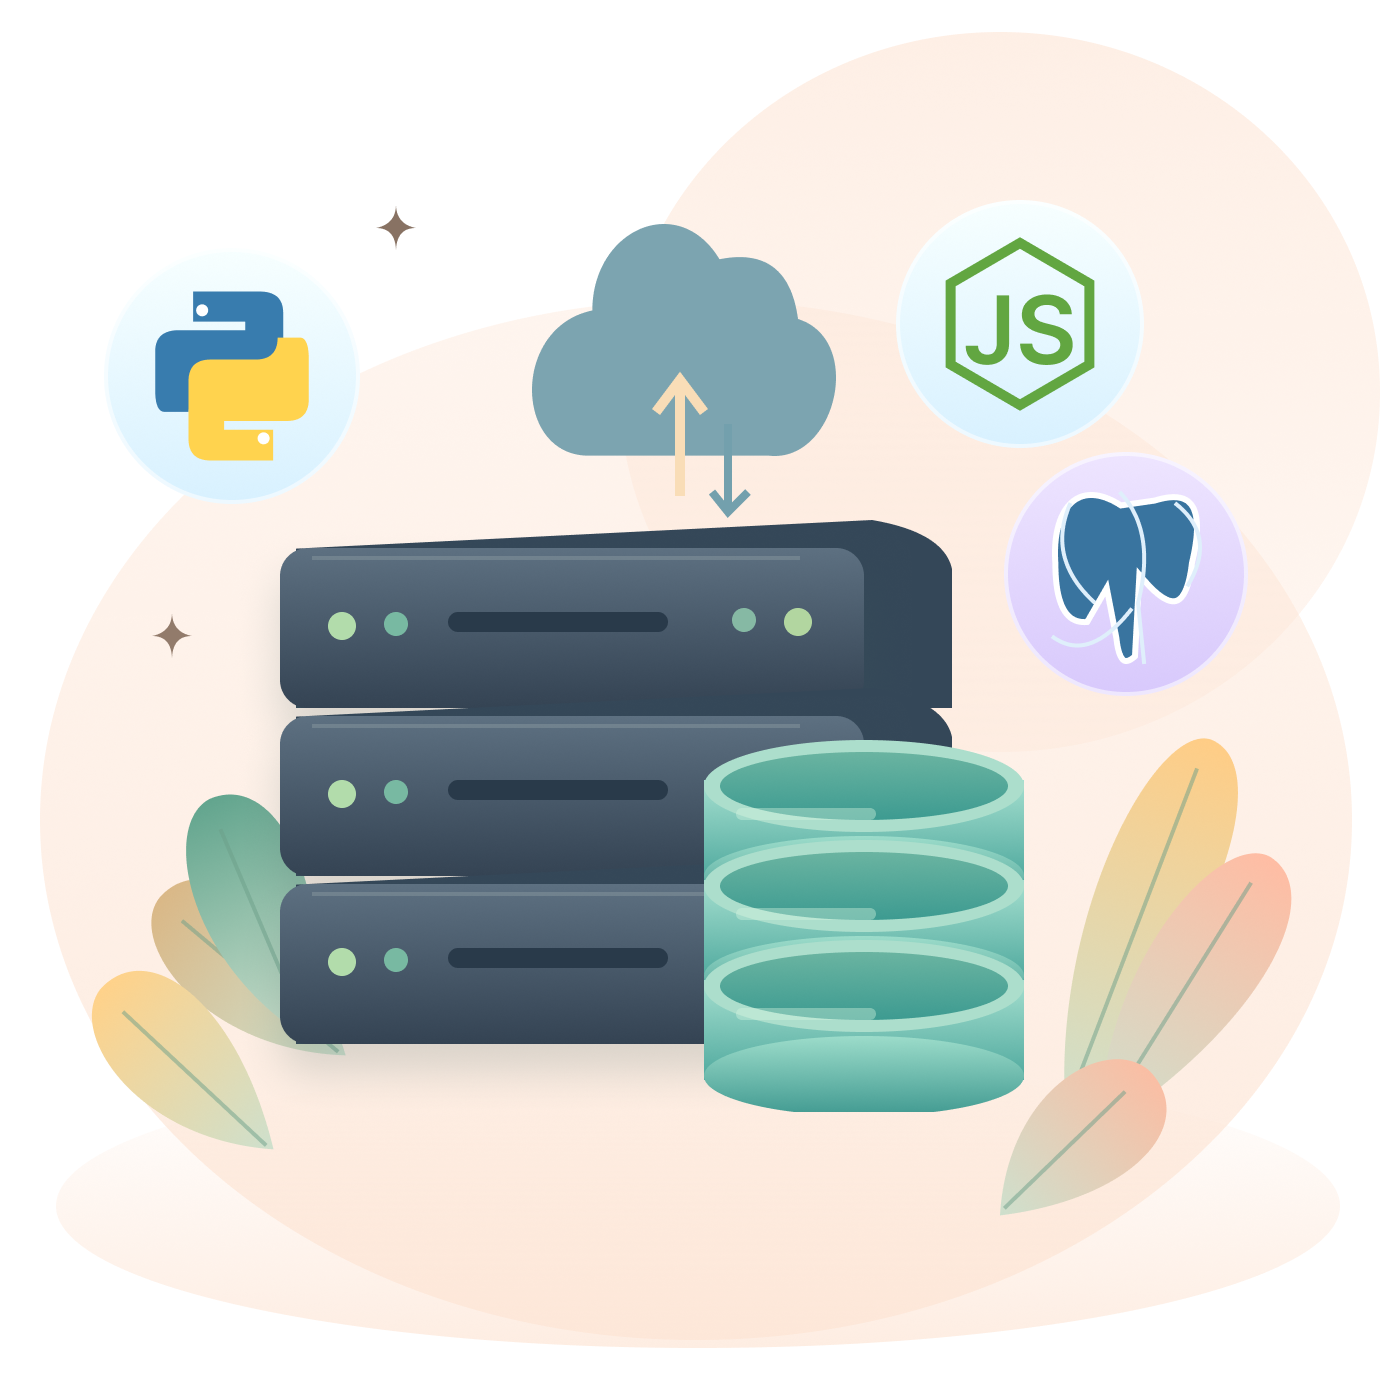
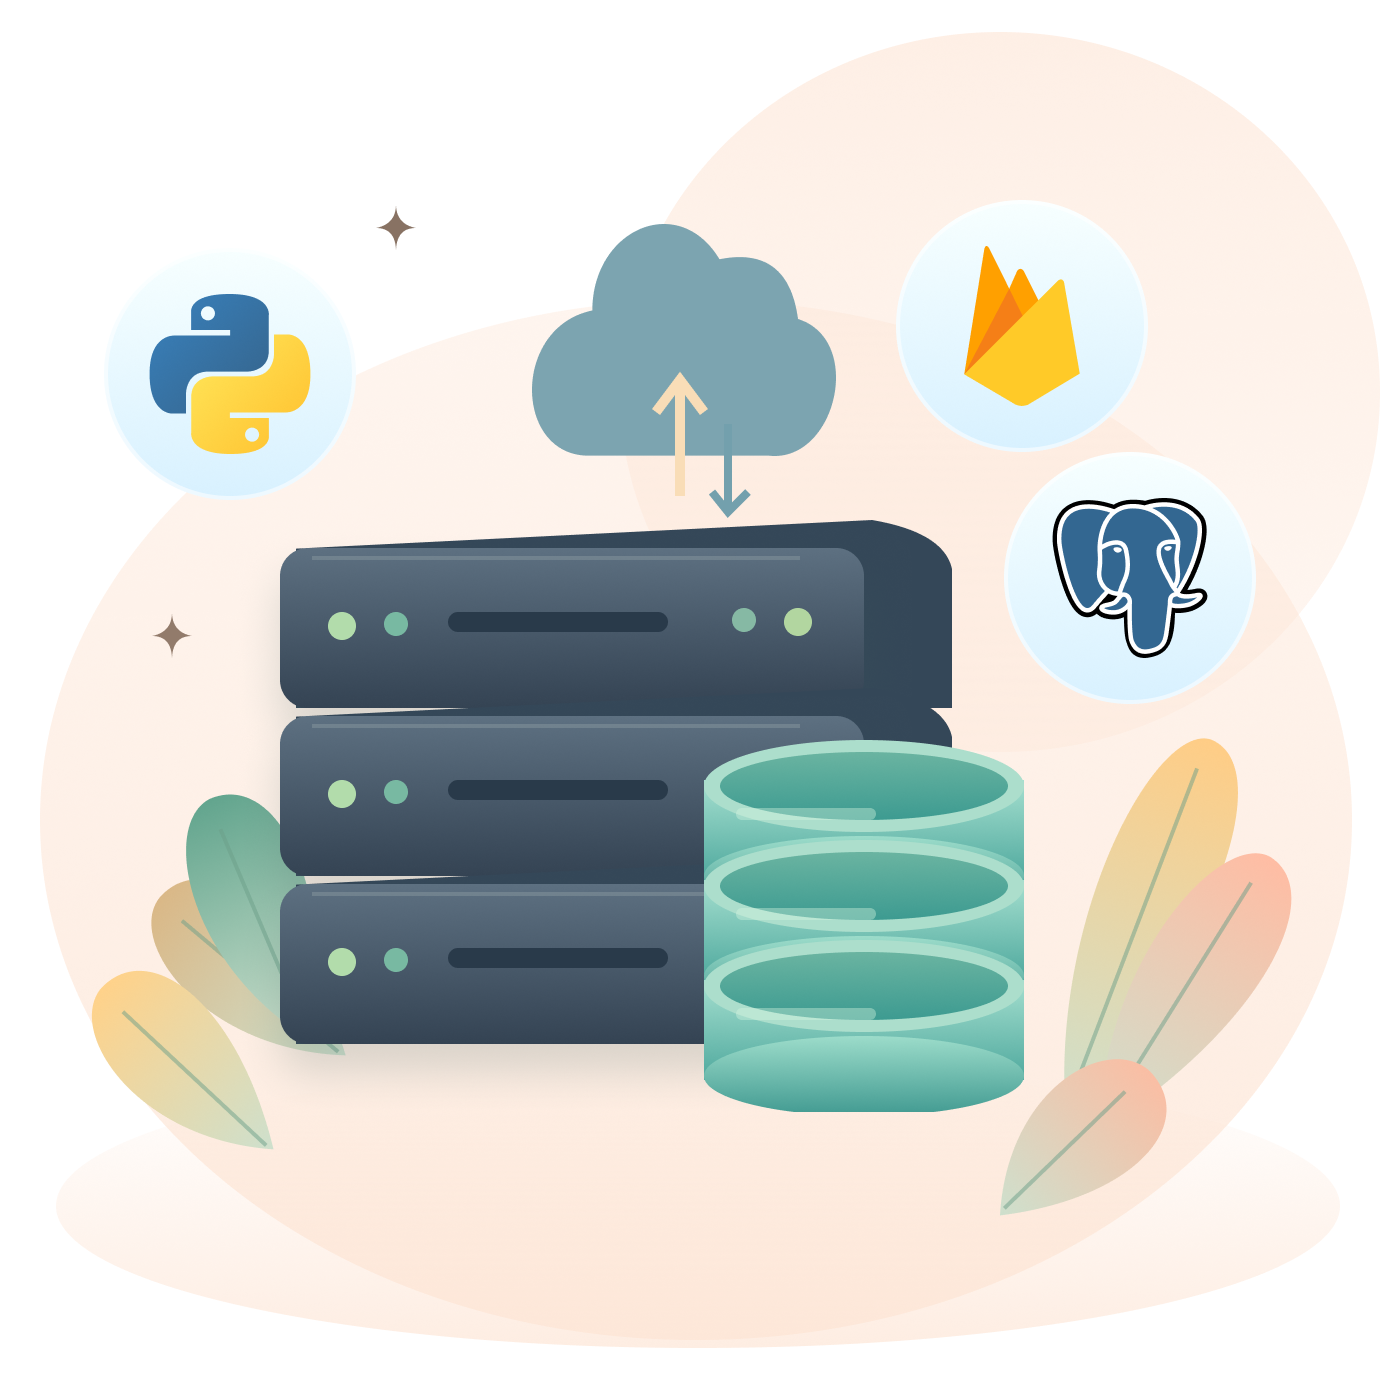
Rewrite the service offerings and swap their artwork.

Changed region(s): [[0.6757, 0.1536, 0.9214, 0.5221], [0.0921, 0.1843, 0.215, 0.3379]]

diff --git a/src/data/content.ts b/src/data/content.ts
@@ -177,29 +177,29 @@ export const services = [
     title: "Frontend Development",
     tone: "coral" as const,
     description:
-      "I build polished, high-performance interfaces with React and Next.js — responsive layouts, thoughtful interactions, and code that stays maintainable as products grow.",
-    features: ["Responsive Interfaces", "Motion & Interactions", "Performance"],
+      "I build polished, high-performance interfaces with React, Next.js, and TypeScript — responsive across desktop and mobile, with motion and code that stays maintainable as products grow.",
+    features: ["React, Next.js & TypeScript", "Responsive Web & Mobile UI", "Motion & Performance"],
   },
   {
     title: "Backend Development",
     tone: "sand" as const,
     description:
       "I design APIs and services that stay reliable under load — clean data models, secure auth, and integrations that make the product feel seamless end to end.",
-    features: ["APIs & Services", "Data Architecture", "Reliability"],
+    features: ["Python & .NET", "Postgres, Firebase & Supabase", "Authentication & APIs"],
   },
   {
-    title: "UI/UX Development",
+    title: "Cloud & Deployment",
     tone: "teal" as const,
     description:
-      "I turn product goals into clear flows and interfaces — from wireframes to production-ready UI — so every screen feels intentional, accessible, and easy to ship.",
-    features: ["Product Flows", "Design Systems", "Accessible UI"],
+      "I set up hosting and release pipelines so products ship cleanly and stay available — containers, cloud infra, and deploys that scale with traffic.",
+    features: ["Docker & Containers", "AWS Cloud Infrastructure", "Vercel Deploys & CI/CD"],
   },
   {
-    title: "Websites and Mobile Apps",
+    title: "UX & Tooling",
     tone: "ink" as const,
     description:
-      "I create custom-coded websites and apps specifically for your brand. I focus on making sure they are scalable, fast, accessible, and have engaging animations to provide a memorable experience for users.",
-    features: ["Modern Websites", "Motion & Animations", "Scalability"],
+      "I turn product goals into clear flows and shippable UI — from Figma prototypes to production-ready interfaces, with a design-to-code workflow teams can trust.",
+    features: ["Figma UI/UX Design", "Design Systems & Flows", "GitHub & VS Code Workflow"],
   },
 ];
 

diff --git a/src/components/Services.tsx b/src/components/Services.tsx
@@ -19,8 +19,8 @@ const tonePos: Record<(typeof services)[number]["tone"], string> = {
 const serviceArt: Record<(typeof services)[number]["tone"], string> = {
   coral: "/services/frontend.png",
   sand: "/services/backend.png",
-  teal: "/services/full-stack.png",
-  ink: "/services/websites-and-mobile.png",
+  teal: "/services/cloud.png",
+  ink: "/services/ux-and-tools.png",
 };
 
 function Doodle({ tone }: { tone: (typeof services)[number]["tone"] }) {
